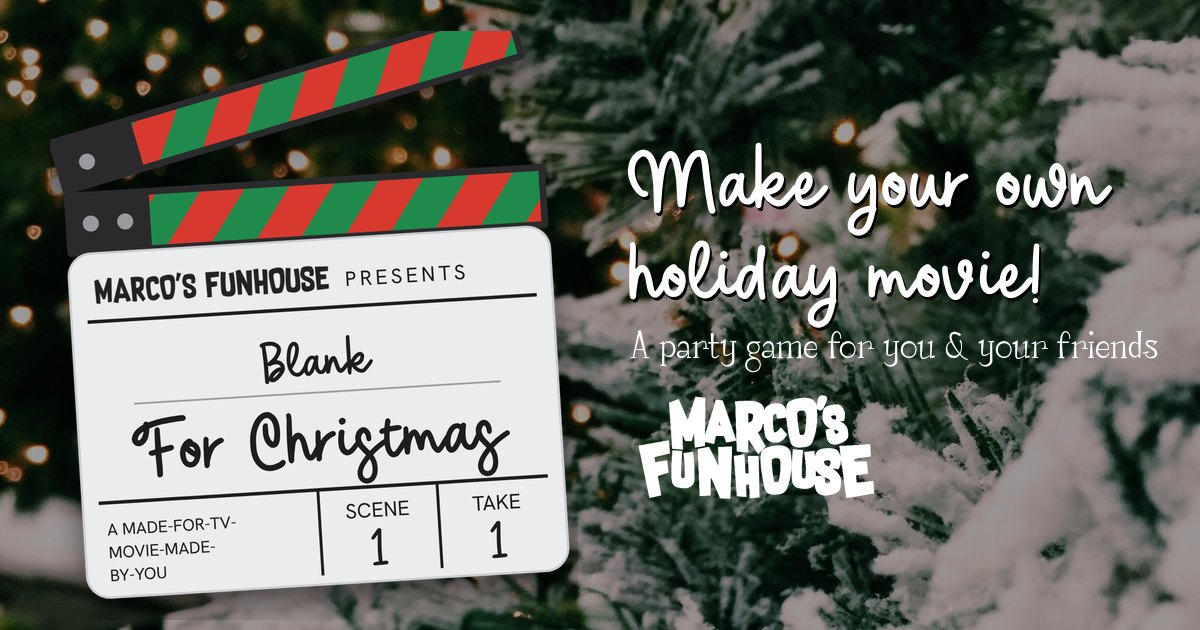
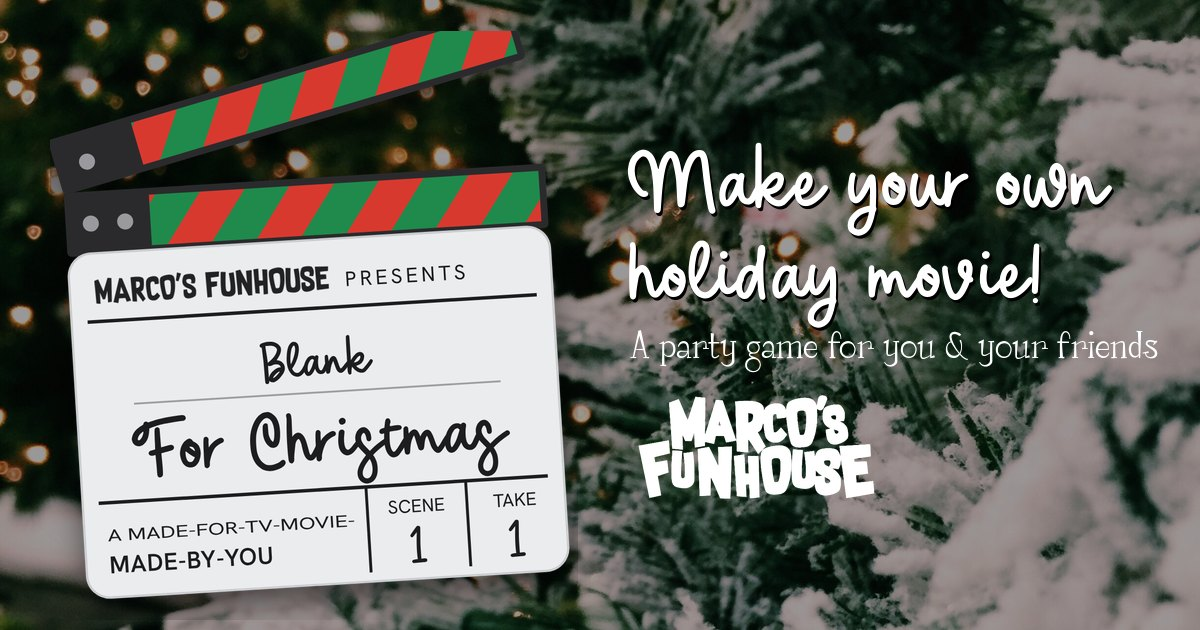
Clapperboard: one-line tagline with bold MADE-BY-YOU, roomier scene/take boxes
Claude-Session: https://claude.ai/code/session_01WcKysh1K7ZYbByMHhZ1xmE

Changed region(s): [[0.0925, 0.7841, 0.4625, 0.9349]]

diff --git a/public/index.html b/public/index.html
@@ -797,10 +797,10 @@ function vHome(){
  <rect x="72" y="314" width="320" height="1.6" fill="#9b9da1"/>
  <text class="c" x="232" y="380" font-size="58" text-anchor="middle">For Christmas</text>
  <rect x="36" y="398" width="392" height="3" fill="#1d1d1f"/>
- <rect x="226" y="400" width="2.5" height="74" fill="#1d1d1f"/><rect x="330" y="400" width="2.5" height="74" fill="#1d1d1f"/>
- <text class="g" x="42" y="428" font-size="14.5">A MADE-FOR-TV-</text><text class="g" x="42" y="448" font-size="14.5">MOVIE-MADE-</text><text class="g" x="42" y="468" font-size="14.5">BY-YOU</text>
- <text class="g" x="278" y="426" font-size="18" text-anchor="middle">SCENE</text><text class="c" x="278" y="468" font-size="40" text-anchor="middle">1</text>
- <text class="g" x="382" y="426" font-size="18" text-anchor="middle">TAKE</text><text class="c" x="382" y="468" font-size="40" text-anchor="middle">1</text>
+ <rect x="268" y="400" width="2.5" height="74" fill="#1d1d1f"/><rect x="355" y="400" width="2.5" height="74" fill="#1d1d1f"/>
+ <text class="g" x="42" y="433" font-size="14.5" textLength="216" lengthAdjust="spacingAndGlyphs">A MADE-FOR-TV-MOVIE-</text><text class="g" x="42" y="461" font-size="21" font-weight="600" letter-spacing=".5">MADE-BY-YOU</text>
+ <text class="g" x="312" y="424" font-size="16" text-anchor="middle">SCENE</text><text class="c" x="312" y="468" font-size="40" text-anchor="middle">1</text>
+ <text class="g" x="398" y="424" font-size="16" text-anchor="middle">TAKE</text><text class="c" x="398" y="468" font-size="40" text-anchor="middle">1</text>
 </g></svg>
   <p class="hsum">The made-for-TV holiday movie is in a league of its own. Now it's your turn to produce the next big hit. Grab a few friends, let fate hand you a name, a job, a crisis and a hunk, then pitch your masterpiece. The best pitch gets red-and-green-lit!</p>
   <div class="hbtns">
